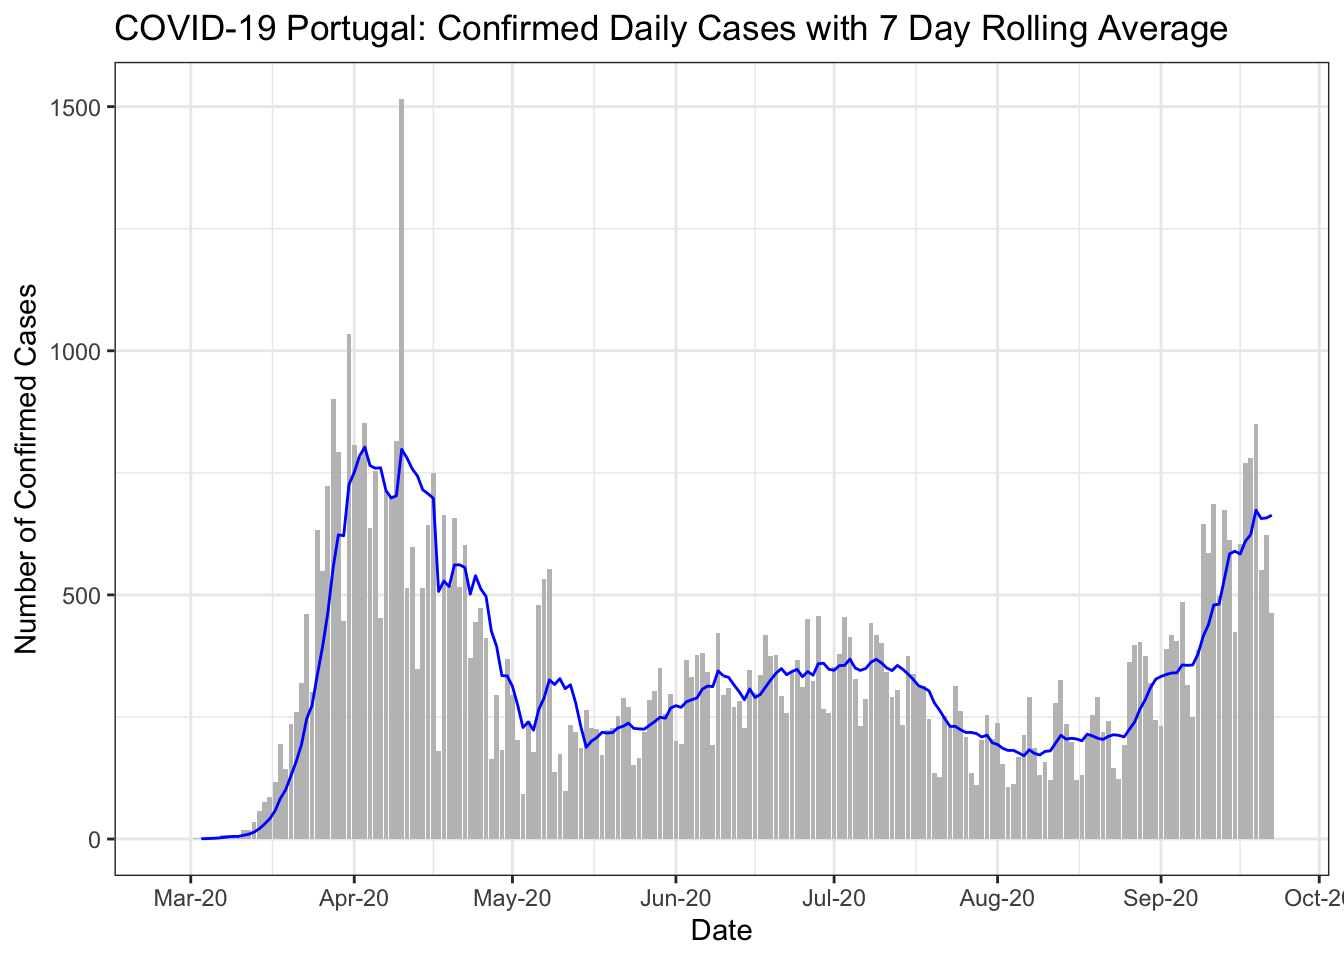
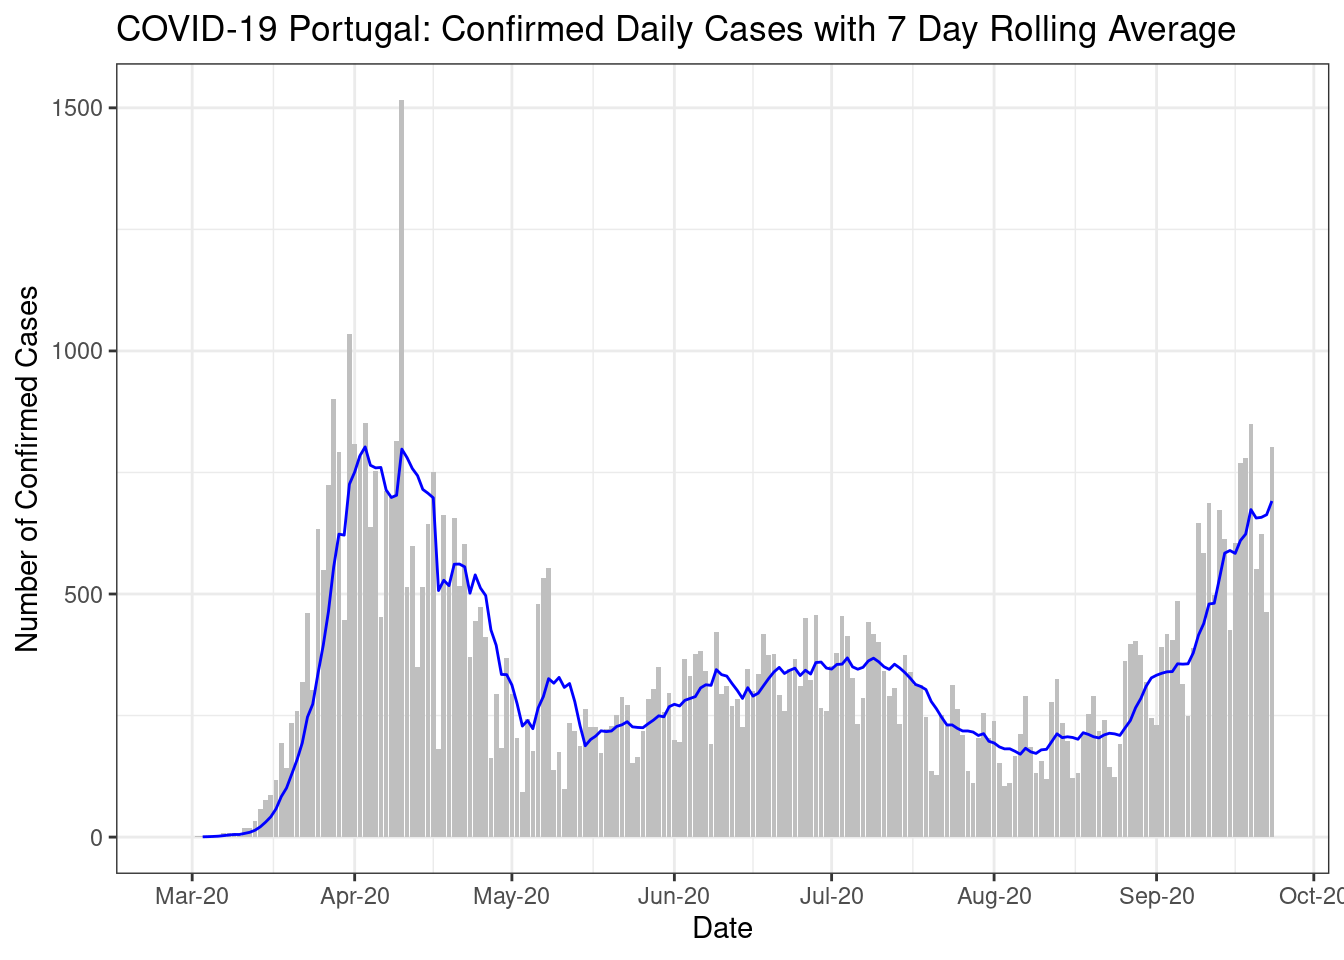
Manual update due to source data release delay

diff --git a/README.md b/README.md
@@ -4,9 +4,9 @@ README](https://github.com/CEAUL/Dados_COVID-19_PT/workflows/Render%20README/bad
 
 ## Daily Portuguese COVID-19 Data
 
-**Last updated: Wed 23 Sep 2020 (15:17:44 UTC \[+0000\])**
+**Last updated: Wed 23 Sep 2020 (18:00:31 WEST \[+0100\])**
 
-  - Data available from **26 Feb 2020** until **22 Sep 2020** (210
+  - Data available from **26 Feb 2020** until **23 Sep 2020** (211
     days).
 
 ### Download User Friendly Version
@@ -47,7 +47,6 @@ The original data were downloaded from an API provide by VOST
 
 |            Date | Cases\_7\_Day\_Mean |        Cases |       Active |    Recovered |     Deaths |
 | --------------: | ------------------: | -----------: | -----------: | -----------: | ---------: |
-| Sun 13 Sep 2020 |               532.1 | 63983 (+673) | 18047 (+491) | 44069 (+175) |  1867 (+7) |
 | Mon 14 Sep 2020 |               584.1 | 64596 (+613) | 18540 (+493) | 44185 (+116) |  1871 (+4) |
 | Tue 15 Sep 2020 |               589.4 | 65021 (+425) | 18784 (+244) | 44362 (+177) |  1875 (+4) |
 | Wed 16 Sep 2020 |               583.6 | 65626 (+605) | 19220 (+436) | 44528 (+166) |  1878 (+3) |
@@ -57,6 +56,7 @@ The original data were downloaded from an API provide by VOST
 | Sun 20 Sep 2020 |               656.3 | 68577 (+552) | 21069 (+347) | 45596 (+192) | 1912 (+13) |
 | Mon 21 Sep 2020 |               657.7 | 69200 (+623) | 21544 (+475) | 45736 (+140) |  1920 (+8) |
 | Tue 22 Sep 2020 |               663.1 | 69663 (+463) | 21764 (+220) | 45974 (+238) |  1925 (+5) |
+| Wed 23 Sep 2020 |               691.3 | 70465 (+802) | 22247 (+483) | 46290 (+316) |  1928 (+3) |
 
 Change from previous day in brackets.
 
@@ -81,19 +81,19 @@ CV <- fread(here("data", "covid19pt_DSSG_Long.csv"))
 # Looking at the data:
 tail(CV)
 ##          data   origVars   origType other symptoms sex ageGrpLower ageGrpUpper
-## 1: 2020-09-17 vigilancia vigilancia                All                        
-## 2: 2020-09-18 vigilancia vigilancia                All                        
-## 3: 2020-09-19 vigilancia vigilancia                All                        
-## 4: 2020-09-20 vigilancia vigilancia                All                        
-## 5: 2020-09-21 vigilancia vigilancia                All                        
-## 6: 2020-09-22 vigilancia vigilancia                All                        
+## 1: 2020-09-18 vigilancia vigilancia                All                        
+## 2: 2020-09-19 vigilancia vigilancia                All                        
+## 3: 2020-09-20 vigilancia vigilancia                All                        
+## 4: 2020-09-21 vigilancia vigilancia                All                        
+## 5: 2020-09-22 vigilancia vigilancia                All                        
+## 6: 2020-09-23 vigilancia vigilancia                All                        
 ##    ageGrp   region value valueUnits
-## 1:        Portugal 37804      Count
-## 2:        Portugal 38721      Count
-## 3:        Portugal 39388      Count
-## 4:        Portugal 39362      Count
-## 5:        Portugal 40465      Count
-## 6:        Portugal 40418      Count
+## 1:        Portugal 38721      Count
+## 2:        Portugal 39388      Count
+## 3:        Portugal 39362      Count
+## 4:        Portugal 40465      Count
+## 5:        Portugal 40418      Count
+## 6:        Portugal 40765      Count
 
 # Order data by original variable name and date.
 setkeyv(CV, c("origVars", "data"))
@@ -143,7 +143,7 @@ CV[origType=="confirmados" & ageGrp=="" & region!="Portugal"] %>%
     y = "Number of Confirmed Cases",
     colour = "Region")
 ## Warning: Transformation introduced infinite values in continuous y-axis
-## Warning: Removed 194 row(s) containing missing values (geom_path).
+## Warning: Removed 195 row(s) containing missing values (geom_path).
 ```
 
 <img src="README_figs/README-casesbyRegion-1.png" width="672" />
